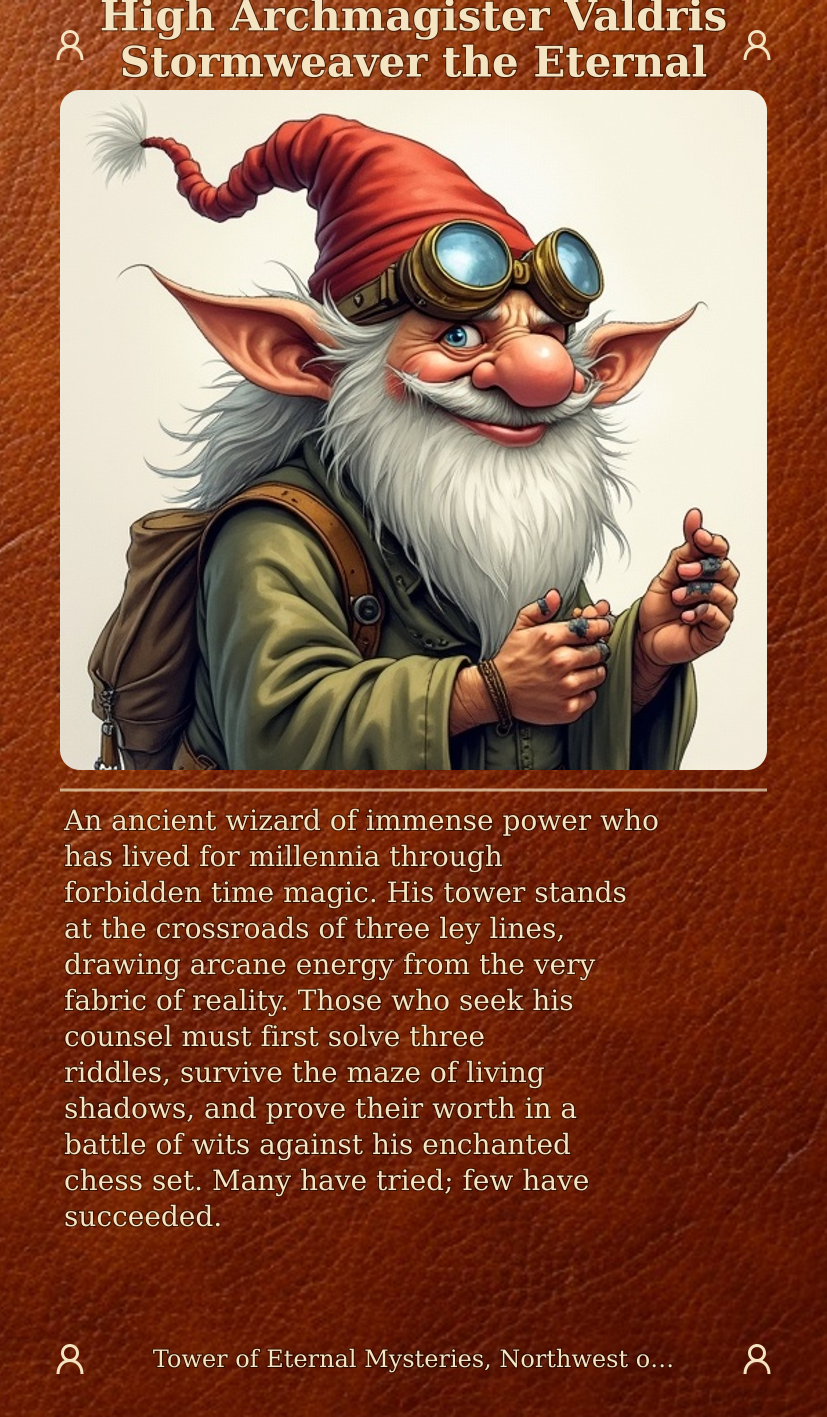
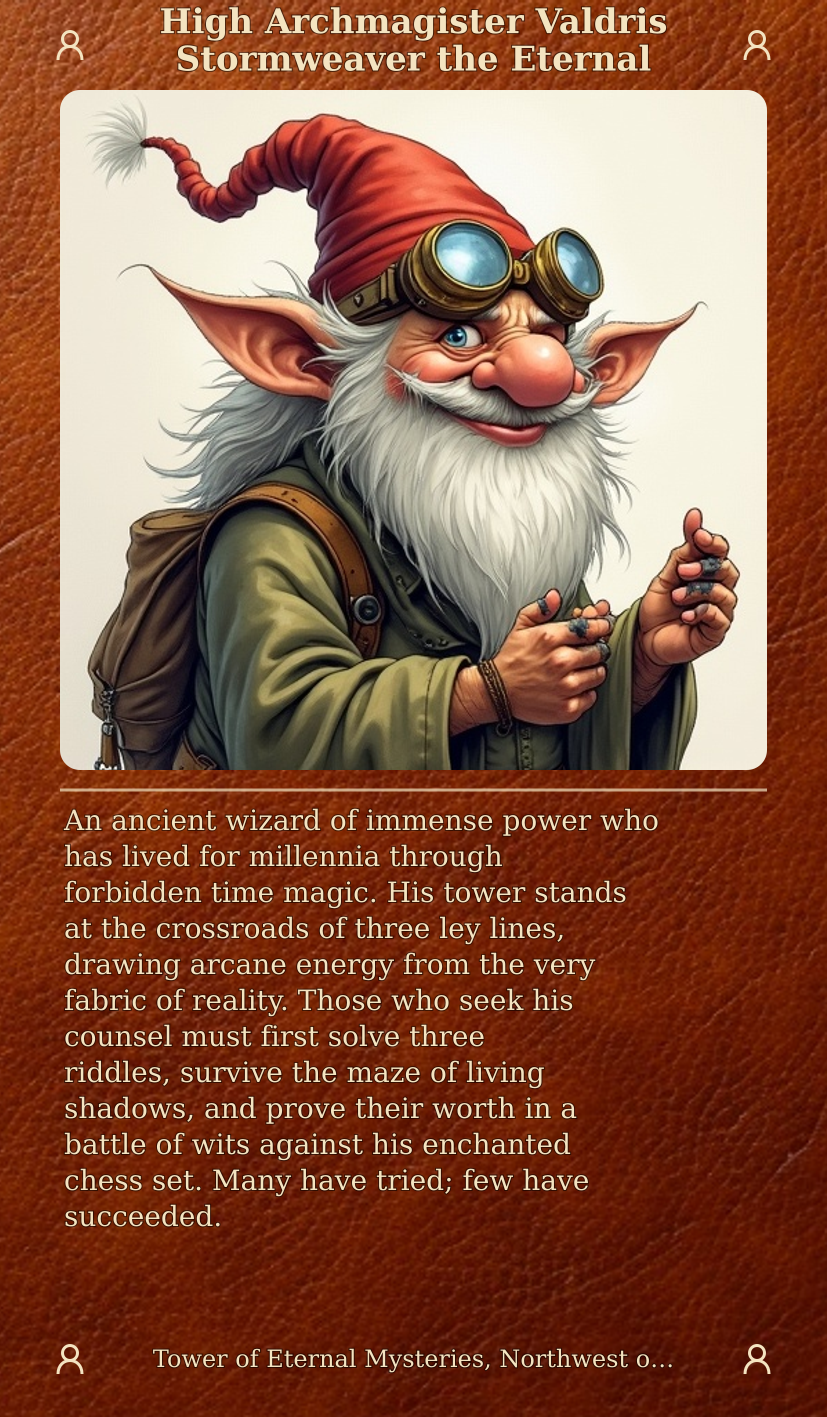
Fix title scaling with proper constraint handling
Constraints:
- Width: title must fit within ~620px (between header icons)
- Height: 2-line titles must fit in 90px header (only 34px/28px work)

Priority order:
1. 1-line @ 52px
2. 1-line @ 42px
3. 1-line @ 34px
4. 2-line @ 34px (largest that fits vertically)
5. 1-line @ 28px
6. 2-line @ 28px
7. Truncate with ellipsis

Also uses optimal 2-line split (minimizes longest line).

Changed region(s): [[0.1209, 0.0, 0.8767, 0.0621]]

diff --git a/packages/card-generator/scripts/generate-all-variants.js b/packages/card-generator/scripts/generate-all-variants.js
@@ -121,23 +121,63 @@ function textureOverlaySvg(opts = {}) {
   // Max width for title = card width minus icon areas (icons at B+12 to B+48 on each side)
   const titleMaxWidth = W - 2 * (B + 48 + 10); // ~620px usable
   const avgCharWidth = 0.55; // approximate ratio for serif bold
+  const sizes = [52, 42, 34, 28];
+
   const fitsAtSize = (text, size) => text.length * size * avgCharWidth <= titleMaxWidth;
+  const maxCharsAtSize = (size) => Math.floor(titleMaxWidth / (size * avgCharWidth));
 
-  let autoTitleSize = titleSize; // 52px default
-  let titleLines = [cardData.name];
-
-  if (!fitsAtSize(cardData.name, 52)) {
-    if (fitsAtSize(cardData.name, 42)) {
-      autoTitleSize = 42;
-    } else if (fitsAtSize(cardData.name, 34)) {
-      autoTitleSize = 34;
-    } else {
-      // Wrap to 2 lines at 42px
-      autoTitleSize = 42;
-      const words = cardData.name.split(' ');
-      const mid = Math.ceil(words.length / 2);
-      titleLines = [words.slice(0, mid).join(' '), words.slice(mid).join(' ')];
+  // Find best 2-line split (minimize the longer line's length)
+  const bestSplit = (name) => {
+    const words = name.split(' ');
+    if (words.length < 2) return [name]; // Can't split single word
+    let best = null, bestMax = Infinity;
+    for (let i = 1; i < words.length; i++) {
+      const line1 = words.slice(0, i).join(' ');
+      const line2 = words.slice(i).join(' ');
+      const maxLen = Math.max(line1.length, line2.length);
+      if (maxLen < bestMax) {
+        bestMax = maxLen;
+        best = [line1, line2];
+      }
     }
+    return best;
+  };
+
+  // Truncate text to fit with ellipsis
+  const truncateToFit = (text, size) => {
+    const maxChars = maxCharsAtSize(size) - 1; // -1 for ellipsis
+    return text.length <= maxChars + 1 ? text : text.slice(0, maxChars) + '…';
+  };
+
+  let autoTitleSize = titleSize;
+  let titleLines = [cardData.name];
+  const split = bestSplit(cardData.name);
+
+  // Try options in priority order: larger fonts preferred, single line slightly preferred at same size
+  // 1-line@52, 1-line@42, 2-line@52, 1-line@34, 2-line@42, 1-line@28, 2-line@34, 2-line@28, truncate
+  const fits1 = (size) => fitsAtSize(cardData.name, size);
+  const fits2 = (size) => split && split.length === 2 && fitsAtSize(split[0], size) && fitsAtSize(split[1], size);
+
+  // Constraints:
+  // - Width: title must fit within ~620px (between header icons)
+  // - Height: 2-line titles must fit in 90px header (only 34px and 28px work for 2 lines)
+  // Priority: larger font preferred, single line preferred at same size
+  if (fits1(52)) {
+    autoTitleSize = 52; titleLines = [cardData.name];
+  } else if (fits1(42)) {
+    autoTitleSize = 42; titleLines = [cardData.name];
+  } else if (fits1(34)) {
+    autoTitleSize = 34; titleLines = [cardData.name];
+  } else if (fits2(34)) {
+    autoTitleSize = 34; titleLines = split;  // 2 lines at 34px fits in 90px header
+  } else if (fits1(28)) {
+    autoTitleSize = 28; titleLines = [cardData.name];
+  } else if (fits2(28)) {
+    autoTitleSize = 28; titleLines = split;  // 2 lines at 28px fits in 90px header
+  } else {
+    // Fallback: truncate at smallest size
+    autoTitleSize = 28;
+    titleLines = [truncateToFit(cardData.name, 28)];
   }
 
   // Truncate footer if too long (max ~40 chars for single line)
